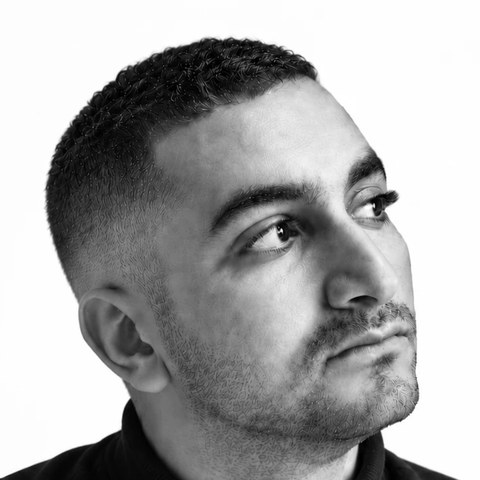
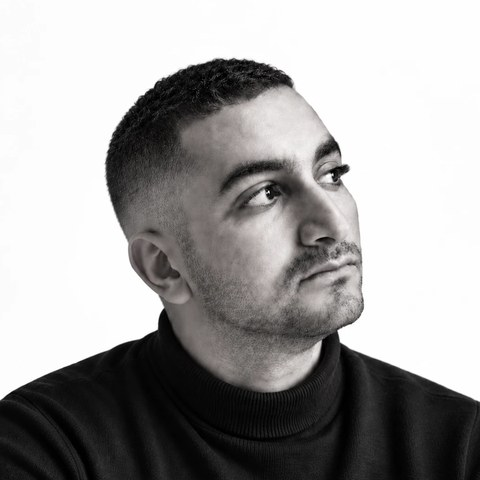
Rebalance hero and zoom out profile circle photo
- Hero: text column + edge photo column, so the name and brief never run
  over the photo; name on two lines in Arabic like English
- Photo keeps its own ratio and lines up with the name block; side fade on
  the figure, top/bottom fade on the image; photo on top on mobile
- Profile circle: wider crop so the whole head shows
- Remove unused legacy hero portrait styles

Claude-Session: https://claude.ai/code/session_01BGLiEJkpTWKADYGLjZmT4M

diff --git a/styles.css b/styles.css
@@ -120,7 +120,6 @@ html[lang="ar"] .hero__name .line-2 { padding-inline-start: 0; }
   padding-block: 28px 56px; border-top: 1px solid var(--line);
 }
 .hero__role .eyebrow { grid-column: 1 / span 4; }
-.hero__id { grid-column: 1 / span 5; align-self: start; }
 .hero__title { margin: 0; font-size: clamp(22px, 2.2vw, 32px); font-weight: 400; letter-spacing: -0.02em; line-height: 1.15; }
 .hero__title em { font-style: normal; color: var(--gold); }
 .hero__summary { grid-column: 6 / span 7; margin: 0; font-size: clamp(17px, 1.45vw, 21px); line-height: 1.55; color: rgba(239, 235, 228, 0.82); font-weight: 300; }
@@ -542,54 +541,53 @@ html[lang="ar"] .next strong { letter-spacing: 0; line-height: 1.15; }
 .about__meta { margin: 6px 0 0; color: var(--muted); font-size: 15px; }
 @media (max-width: 760px) { .about__photo { width: 112px; height: 112px; } }
 
-/* hero portrait */
-.hero__head { display: grid; grid-template-columns: minmax(0, 1fr); align-items: end; }
-.hero__head.has-portrait { grid-template-columns: auto auto; justify-content: start; align-items: center; column-gap: clamp(28px, 4vw, 72px); }
-html[dir="rtl"] .hero__head.has-portrait .hero__portrait { order: -1; }
-.hero__head.has-portrait .hero__name { font-size: clamp(60px, 13.2vw, 240px); }
-html[lang="ar"] .hero__head.has-portrait .hero__name { font-size: clamp(56px, 12vw, 220px); }
-.hero__portrait { margin: 0; padding: clamp(14px, 1.2vw, 20px); }
-.hero__portrait img { display: block; filter: grayscale(1) contrast(1.05); transform: scaleX(-1); }
-.hero__portrait--round img {
-  width: clamp(150px, 16vw, 250px); height: auto; aspect-ratio: 1; border-radius: 50%; object-fit: cover;
-  outline: 1px solid var(--gold); outline-offset: clamp(8px, 0.9vw, 14px);
-}
-.hero__portrait--tall .frame { width: clamp(190px, 21vw, 330px); aspect-ratio: 3 / 4; overflow: hidden; background: var(--ink); }
-.hero__portrait--tall .zoom { height: 100%; }
-.hero__portrait--tall img { width: 100%; height: 100%; object-fit: cover; object-position: 50% 20%; }
-@media (max-width: 760px) {
-  .hero__head.has-portrait { grid-template-columns: 1fr; }
-  .hero__portrait, html[dir="rtl"] .hero__head.has-portrait .hero__portrait { order: -1; padding: 24px 10px 4px; }
-  .hero__portrait--round img { width: 120px; outline-offset: 7px; }
-  .hero__portrait--tall .frame { width: 58%; }
-}
 
-/* edge portrait: pinned to the page edge, fading into the background */
-.hero { position: relative; overflow: hidden; }
-.hero > .wrap { position: relative; }
-.hero__meta, .hero__name, .hero__role { position: relative; z-index: 1; }
-.hero__head.has-portrait { grid-template-columns: minmax(0, 1fr); }
+/* hero with portrait: text column + photo column pinned to the page edge */
+.hero--portrait {
+  display: grid; grid-template-columns: minmax(0, 1fr) clamp(360px, 44vw, 760px);
+  padding-top: 0; position: relative; overflow: hidden;
+}
+.hero--portrait .hero__text { grid-column: 1; grid-row: 1; padding-top: 120px; padding-bottom: clamp(48px, 6vw, 96px); position: relative; z-index: 1; min-width: 0; }
+.hero--portrait .hero__meta { padding-inline-end: clamp(16px, 3vw, 48px); }
+.hero--portrait .hero__name { font-size: clamp(64px, 12vw, 210px); line-height: 0.9; }
+html[lang="ar"] .hero--portrait .hero__name { font-size: clamp(60px, 11vw, 196px); line-height: 1.06; }
+.hero--portrait .hero__name .line-2 { padding-inline-start: 0; }
+.hero--portrait .hero__role { display: grid; grid-template-columns: minmax(0, 1fr); gap: 18px; padding-block: 28px 0; max-width: 60ch; }
+.hero--portrait .hero__role > * { grid-column: 1 / -1 !important; }
+.hero--portrait .hero__title { font-size: clamp(22px, 2vw, 30px); }
+.hero--portrait .hero__summary { font-size: clamp(16px, 1.25vw, 19px); }
+.hero--portrait .hero__cta { margin-top: 6px; }
+
+/* photo keeps its own ratio so the head scales with the name; the side fade
+   sits on the figure and the top/bottom fade on the image (no mask-composite) */
 .hero__portrait--edge {
-  position: absolute; z-index: 0; top: 0; inset-inline-end: 0; margin: 0; padding: 0;
-  height: clamp(520px, 46vw, 780px); aspect-ratio: 1163 / 1353; pointer-events: none;
-  -webkit-mask-image: linear-gradient(to right, transparent 0%, #000 42%); mask-image: linear-gradient(to right, transparent 0%, #000 42%);
-  animation: portraitIn 2.2s var(--ease) both;
+  grid-column: 2; grid-row: 1; align-self: start; position: relative;
+  margin: clamp(88px, 9.6vw, 170px) 0 0; aspect-ratio: 1163 / 1353;
+  pointer-events: none; animation: portraitIn 2.2s var(--ease) both;
+  -webkit-mask-image: linear-gradient(to right, transparent 0%, #000 24%);
+  mask-image: linear-gradient(to right, transparent 0%, #000 24%);
 }
 html[dir="rtl"] .hero__portrait--edge {
-  -webkit-mask-image: linear-gradient(to left, transparent 0%, #000 42%); mask-image: linear-gradient(to left, transparent 0%, #000 42%);
+  -webkit-mask-image: linear-gradient(to left, transparent 0%, #000 24%);
+  mask-image: linear-gradient(to left, transparent 0%, #000 24%);
 }
 .hero__portrait--edge img {
-  display: block; width: 100%; height: 100%; object-fit: cover; object-position: 50% 15%; transform: scaleX(-1); filter: none;
-  -webkit-mask-image: linear-gradient(to bottom, transparent 0%, #000 14%, #000 52%, transparent 94%);
-  mask-image: linear-gradient(to bottom, transparent 0%, #000 14%, #000 52%, transparent 94%);
+  display: block; width: 100%; height: 100%; object-fit: cover;
+  transform: scaleX(-1); filter: none;
+  -webkit-mask-image: linear-gradient(to bottom, transparent 0%, #000 9%, #000 60%, transparent 98%);
+  mask-image: linear-gradient(to bottom, transparent 0%, #000 9%, #000 60%, transparent 98%);
 }
 html[dir="rtl"] .hero__portrait--edge img { transform: none; }
 @keyframes portraitIn { from { opacity: 0; } to { opacity: 1; } }
 @media (max-width: 760px) {
+  .hero--portrait { display: flex; flex-direction: column; }
   .hero__portrait--edge, html[dir="rtl"] .hero__portrait--edge {
-    position: relative; inset: auto; width: calc(100% + 2 * var(--gutter)); margin-inline: calc(var(--gutter) * -1); height: auto; aspect-ratio: 1 / 0.95;
+    order: -1; width: 100%; aspect-ratio: auto; height: min(104vw, 520px); margin: 64px 0 -56px;
     -webkit-mask-image: none; mask-image: none;
   }
-  .hero__portrait--edge img { object-position: 50% 12%; }
+  .hero__portrait--edge img { object-position: 50% 8%;
+    -webkit-mask-image: linear-gradient(to bottom, transparent 0%, #000 10%, #000 58%, transparent 96%);
+    mask-image: linear-gradient(to bottom, transparent 0%, #000 10%, #000 58%, transparent 96%); }
+  .hero--portrait .hero__text { padding-top: 0; }
 }
 @media (prefers-reduced-motion: reduce) { .hero__portrait--edge { animation: none; } }

diff --git a/app.js b/app.js
@@ -185,24 +185,19 @@
   function heroHTML() {
     const P = D.profile;
     const name = t(P.name).split(" ");
-    const nameHTML = state.lang === "ar"
-      ? `<span>${esc(name.join(" "))}</span>`
-      : `<span>${esc(name[0])}</span><span class="line-2">${esc(name.slice(1).join(" "))}</span>`;
+    // two lines in both languages so the name keeps the same proportion
+    const nameHTML = `<span>${esc(name[0])}</span><span class="line-2">${esc(name.slice(1).join(" "))}</span>`;
     const [role, rest] = t(P.title).split("|").map((s) => s.trim());
+    const portrait = P.photoLarge
+      ? `<figure class="hero__portrait--edge" aria-hidden="true"><img src="${esc(P.photoLarge)}" alt="" /></figure>`
+      : "";
     return `
-    <section class="hero" id="top">
-      <div class="wrap">
+    <section class="hero${portrait ? " hero--portrait" : ""}" id="top">
+      <div class="wrap hero__text">
         <div class="hero__meta eyebrow reveal"><span>${T(P.title)}</span><span>${T(P.location)}</span></div>
-        <div class="hero__head${P.photoLarge ? " has-portrait" : ""}">
-          <h1 class="hero__name reveal">${nameHTML}</h1>
-          ${P.photoLarge
-            ? `<figure class="hero__portrait hero__portrait--edge" aria-hidden="true"><img src="${esc(P.photoLarge)}" alt="" /></figure>`
-            : ""}
-        </div>
+        <h1 class="hero__name reveal">${nameHTML}</h1>
         <div class="hero__role reveal">
-          <div class="hero__id">
-            <p class="hero__title">${esc(role)}${rest ? ` <em>/ ${esc(rest)}</em>` : ""}</p>
-          </div>
+          <p class="hero__title">${esc(role)}${rest ? ` <em>/ ${esc(rest)}</em>` : ""}</p>
           <p class="hero__summary">${T(P.summary)}</p>
           <div class="hero__cta">
             <a class="btn btn--solid" href="#execution">${esc(u().viewWork)} <span>${arrow}</span></a>
@@ -210,9 +205,11 @@
           </div>
         </div>
       </div>
-      ${P.heroImage ? `<figure class="bleed" style="margin:0"><img data-parallax src="${esc(P.heroImage)}" alt="" /></figure>` : ""}
+      ${portrait}
+      ${P.heroImage ? `<figure class="bleed" style="margin:0; grid-column: 1 / -1"><img data-parallax src="${esc(P.heroImage)}" alt="" /></figure>` : ""}
     </section>`;
   }
+
 
   function sectionHead(no, id, title, count, intro) {
     return `
